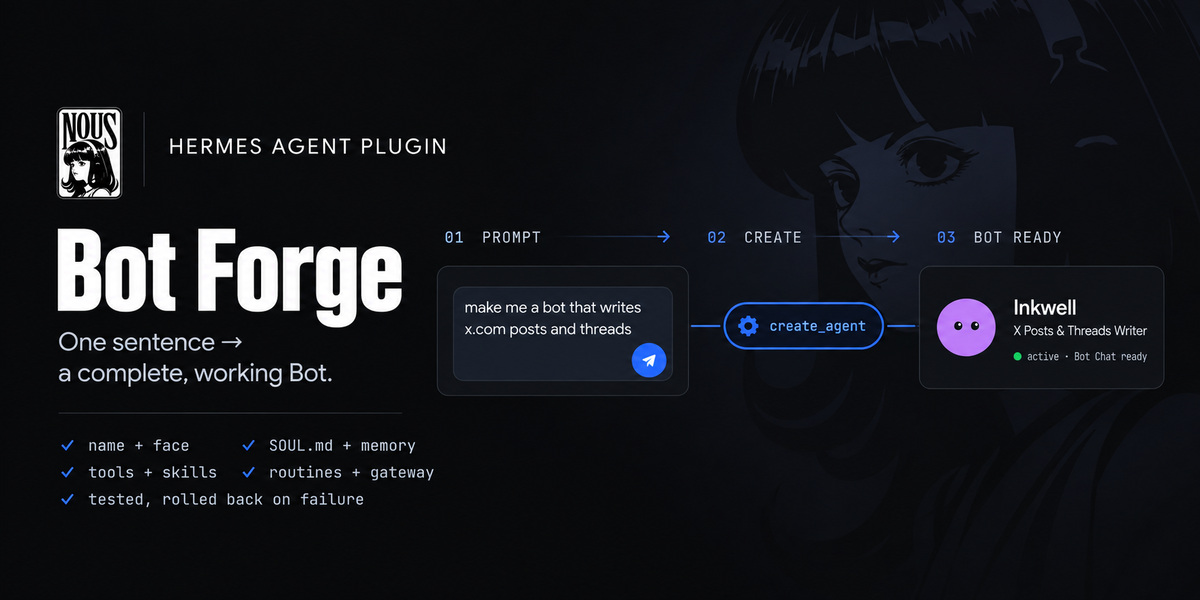
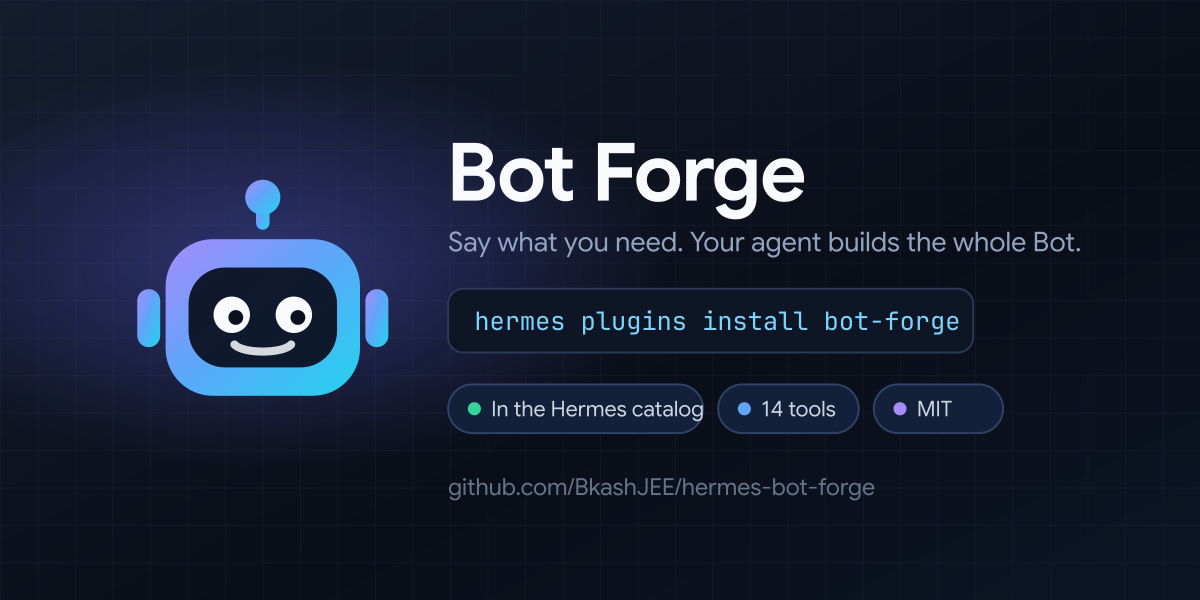
Brand the repo: bot mark, social preview, catalog badge
The catalog entry's docs_url points at this README, so it is the landing page
for anyone who finds the plugin. Adds a bot-face icon (512/256/1024 plus the
SVG source) for the avatar and catalog image, a 1280x640 social preview for the
GitHub link card, and a header that leads with the one line that matters:
hermes plugins install bot-forge.

diff --git a/README.md b/README.md
@@ -1,14 +1,21 @@
 <p align="center">
-  <a href="https://github.com/BkashJEE/hermes-bot-forge/actions/workflows/tests.yml"><img src="https://github.com/BkashJEE/hermes-bot-forge/actions/workflows/tests.yml/badge.svg" alt="tests"></a>
-</p>
-
-<p align="center">
   <img src="docs/banner.png" alt="Bot Forge — one sentence to a complete, working Hermes Bot" width="100%">
 </p>
 
-# 🧪 Hermes Bot Forge
+<p align="center">
+  <a href="https://hermes-agent.nousresearch.com/docs/plugins/"><img src="https://img.shields.io/badge/Hermes%20plugin%20catalog-listed-22D3EE?style=flat-square" alt="in the Hermes plugin catalog"></a>
+  <a href="https://github.com/BkashJEE/hermes-bot-forge/actions/workflows/tests.yml"><img src="https://img.shields.io/github/actions/workflow/status/BkashJEE/hermes-bot-forge/tests.yml?style=flat-square&label=tests" alt="tests"></a>
+  <a href="https://github.com/BkashJEE/hermes-bot-forge/releases"><img src="https://img.shields.io/github/v/release/BkashJEE/hermes-bot-forge?style=flat-square&color=8B5CF6" alt="release"></a>
+  <a href="LICENSE"><img src="https://img.shields.io/badge/license-MIT-64748B?style=flat-square" alt="MIT"></a>
+</p>
+
+# Hermes Bot Forge
 
 **Say "make me a social media manager" — your Hermes agent builds that Bot.**
+
+```bash
+hermes plugins install bot-forge
+```
 
 Bot Forge is a [Hermes Agent](https://github.com/NousResearch/hermes-agent) plugin that lets any agent spawn a complete, working [Bot Mode](https://hermes-agent.nousresearch.com/docs/user-guide/bot-mode) Bot from one sentence — no New Agent dialog, no setup:
 
